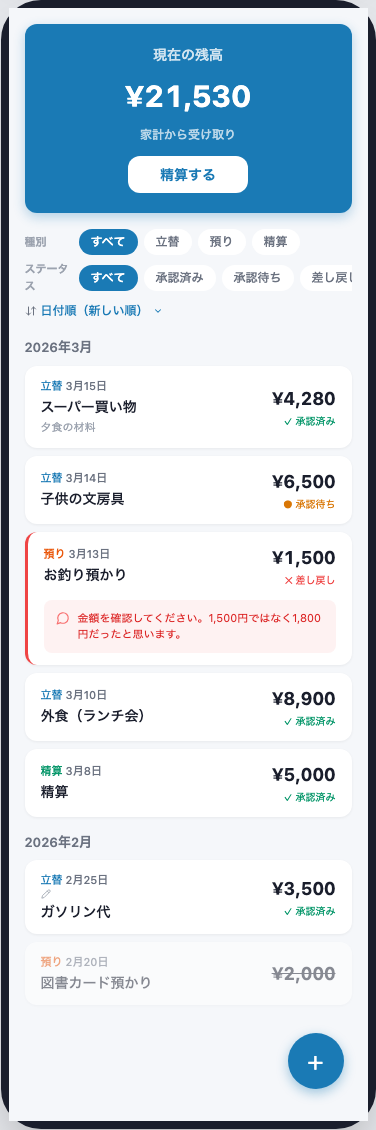
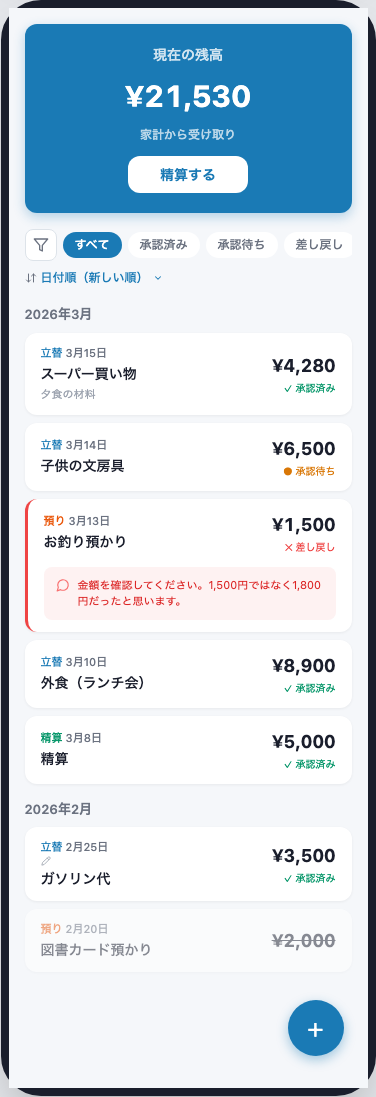
フィルターUIをアイコン+ステータスピル+モーダルに再構成

diff --git a/docs/v0_design/mockups.html b/docs/v0_design/mockups.html
@@ -633,17 +633,13 @@ tailwind.config = {
     </div>
     <!-- Filters & Sort -->
     <div style="display: flex; flex-direction: column; gap: 6px; padding: 0 16px;">
-      <!-- Type filter -->
+      <!-- Filter icon + Status pills inline -->
       <div style="display: flex; align-items: center; gap: 6px; overflow-x: auto;">
-        <span style="font-size: 11px; font-weight: 600; color: #9ca3af; flex-shrink: 0; width: 48px;">種別</span>
-        <span class="filter-pill filter-pill-active" style="font-size: 12px; padding: 4px 12px;">すべて</span>
-        <span class="filter-pill filter-pill-inactive" style="font-size: 12px; padding: 4px 12px;">立替</span>
-        <span class="filter-pill filter-pill-inactive" style="font-size: 12px; padding: 4px 12px;">預り</span>
-        <span class="filter-pill filter-pill-inactive" style="font-size: 12px; padding: 4px 12px;">精算</span>
-      </div>
-      <!-- Status filter -->
-      <div style="display: flex; align-items: center; gap: 6px; overflow-x: auto;">
-        <span style="font-size: 11px; font-weight: 600; color: #9ca3af; flex-shrink: 0; width: 48px;">ステータス</span>
+        <!-- Filter icon (opens modal for detailed filters) -->
+        <button style="display: flex; align-items: center; justify-content: center; width: 32px; height: 32px; border-radius: 8px; border: 1px solid #dde3e9; background: white; cursor: pointer; flex-shrink: 0;">
+          <svg width="16" height="16" viewBox="0 0 24 24" fill="none" stroke="#6b7280" stroke-width="2" stroke-linecap="round" stroke-linejoin="round"><polygon points="22 3 2 3 10 12.46 10 19 14 21 14 12.46 22 3"/></svg>
+        </button>
+        <!-- Status pills (always visible) -->
         <span class="filter-pill filter-pill-active" style="font-size: 12px; padding: 4px 12px;">すべて</span>
         <span class="filter-pill filter-pill-inactive" style="font-size: 12px; padding: 4px 12px;">承認済み</span>
         <span class="filter-pill filter-pill-inactive" style="font-size: 12px; padding: 4px 12px;">承認待ち</span>
@@ -750,6 +746,64 @@ tailwind.config = {
     </div>
     <!-- FAB -->
     <button class="fab">+</button>
+  </div>
+</div>
+
+<!-- ==================== SCREEN 4b: FILTER MODAL ==================== -->
+<div class="screen" id="screen-04b-filter-modal">
+  <div class="screen-inner" style="background: #f5f7fa;">
+    <div class="header">
+      <span class="back-arrow">
+        <svg width="20" height="20" viewBox="0 0 24 24" fill="none" stroke="#6b7280" stroke-width="2" stroke-linecap="round" stroke-linejoin="round"><path d="m15 18-6-6 6-6"/></svg>
+      </span>
+      <h1>絞り込み</h1>
+    </div>
+    <div style="display: flex; flex-direction: column; gap: 24px; padding: 20px 16px;">
+      <!-- Status filter -->
+      <div>
+        <span style="font-size: 14px; font-weight: 600; color: #1a1e2c; display: block; margin-bottom: 10px;">ステータス</span>
+        <div style="display: flex; flex-wrap: wrap; gap: 8px;">
+          <span class="filter-pill filter-pill-active" style="font-size: 13px; padding: 6px 16px;">すべて</span>
+          <span class="filter-pill filter-pill-inactive" style="font-size: 13px; padding: 6px 16px;">承認済み</span>
+          <span class="filter-pill filter-pill-inactive" style="font-size: 13px; padding: 6px 16px;">承認待ち</span>
+          <span class="filter-pill filter-pill-inactive" style="font-size: 13px; padding: 6px 16px;">差し戻し</span>
+        </div>
+      </div>
+      <!-- Type filter -->
+      <div>
+        <span style="font-size: 14px; font-weight: 600; color: #1a1e2c; display: block; margin-bottom: 10px;">種別</span>
+        <div style="display: flex; flex-wrap: wrap; gap: 8px;">
+          <span class="filter-pill filter-pill-active" style="font-size: 13px; padding: 6px 16px;">すべて</span>
+          <span class="filter-pill filter-pill-inactive" style="font-size: 13px; padding: 6px 16px;">立替</span>
+          <span class="filter-pill filter-pill-inactive" style="font-size: 13px; padding: 6px 16px;">預り</span>
+          <span class="filter-pill filter-pill-inactive" style="font-size: 13px; padding: 6px 16px;">精算</span>
+        </div>
+      </div>
+      <!-- Sort -->
+      <div>
+        <span style="font-size: 14px; font-weight: 600; color: #1a1e2c; display: block; margin-bottom: 10px;">並び替え</span>
+        <div style="display: flex; flex-direction: column; gap: 8px;">
+          <div style="display: flex; align-items: center; gap: 8px; background: #e9f0f5; border-radius: 8px; padding: 12px 16px;">
+            <svg width="16" height="16" viewBox="0 0 24 24" fill="none" stroke="#1a7ab5" stroke-width="2" stroke-linecap="round" stroke-linejoin="round"><circle cx="12" cy="12" r="10"/><circle cx="12" cy="12" r="4" fill="#1a7ab5"/></svg>
+            <span style="font-size: 14px; font-weight: 500; color: #1a1e2c;">日付順（新しい順）</span>
+          </div>
+          <div style="display: flex; align-items: center; gap: 8px; background: white; border-radius: 8px; padding: 12px 16px; border: 1px solid #dde3e9;">
+            <svg width="16" height="16" viewBox="0 0 24 24" fill="none" stroke="#9ca3af" stroke-width="2" stroke-linecap="round" stroke-linejoin="round"><circle cx="12" cy="12" r="10"/></svg>
+            <span style="font-size: 14px; color: #6b7280;">日付順（古い順）</span>
+          </div>
+          <div style="display: flex; align-items: center; gap: 8px; background: white; border-radius: 8px; padding: 12px 16px; border: 1px solid #dde3e9;">
+            <svg width="16" height="16" viewBox="0 0 24 24" fill="none" stroke="#9ca3af" stroke-width="2" stroke-linecap="round" stroke-linejoin="round"><circle cx="12" cy="12" r="10"/></svg>
+            <span style="font-size: 14px; color: #6b7280;">登録順（新しい順）</span>
+          </div>
+          <div style="display: flex; align-items: center; gap: 8px; background: white; border-radius: 8px; padding: 12px 16px; border: 1px solid #dde3e9;">
+            <svg width="16" height="16" viewBox="0 0 24 24" fill="none" stroke="#9ca3af" stroke-width="2" stroke-linecap="round" stroke-linejoin="round"><circle cx="12" cy="12" r="10"/></svg>
+            <span style="font-size: 14px; color: #6b7280;">登録順（古い順）</span>
+          </div>
+        </div>
+      </div>
+      <!-- Apply button -->
+      <button class="btn-primary" style="margin-top: 8px;">適用する</button>
+    </div>
   </div>
 </div>
 
